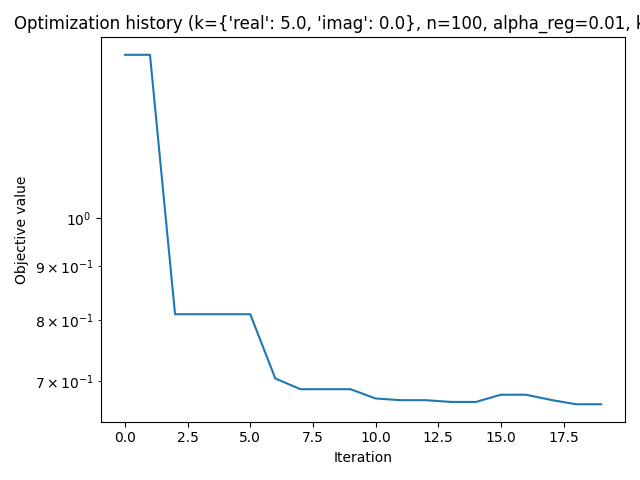
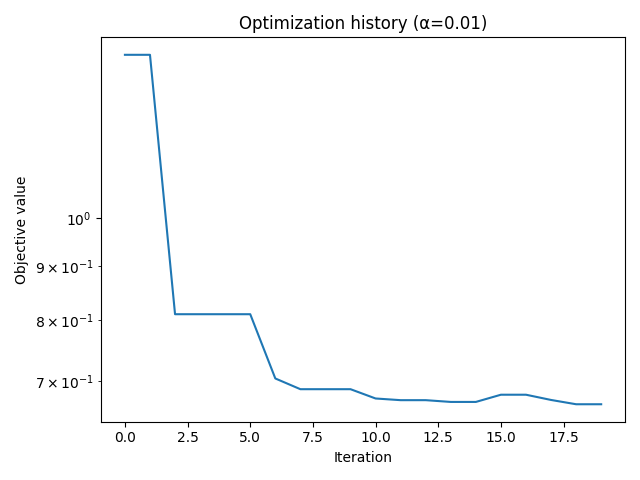
fix: remove .0

Changed region(s): [[0.0, 0.0312, 1.0, 0.0625]]

diff --git a/src/biem_helmholtz_2d/optimization/_example.py b/src/biem_helmholtz_2d/optimization/_example.py
@@ -308,11 +308,7 @@ def example_optimization_plot(path: pathlib.Path) -> None:
     ax.set_yscale("log")
     ax.set_xlabel("Iteration")
     ax.set_ylabel("Objective value")
-    ax.set_title(
-        f"Optimization history "
-        f"(k={history['k']}, n={history['n']}, "
-        f"alpha_reg={history['alpha_reg']}, k_reg={history['k_reg']})"
-    )
+    ax.set_title(f"Optimization history (alpha={history['alpha_reg']})")
     fig.tight_layout()
     fig.savefig(path / "optimization_history.png")
     plt.close(fig)
@@ -327,12 +323,12 @@ def example_optimization_plot(path: pathlib.Path) -> None:
     plt.close(fig)
 
     # Near-field plot
-    fig, ax = plt.subplots(1, 3, figsize=(15, 5))
+    fig, ax = plt.subplots(1, 2, figsize=(10, 5))
     plot_near_field(
         field_data,
         ax_utot_re=ax[0],
-        ax_utot_im=ax[1],
-        ax_utot_abs=ax[2],
+        ax_utot_im=None,
+        ax_utot_abs=ax[1],
     )
     for a in ax:
         a.plot(
